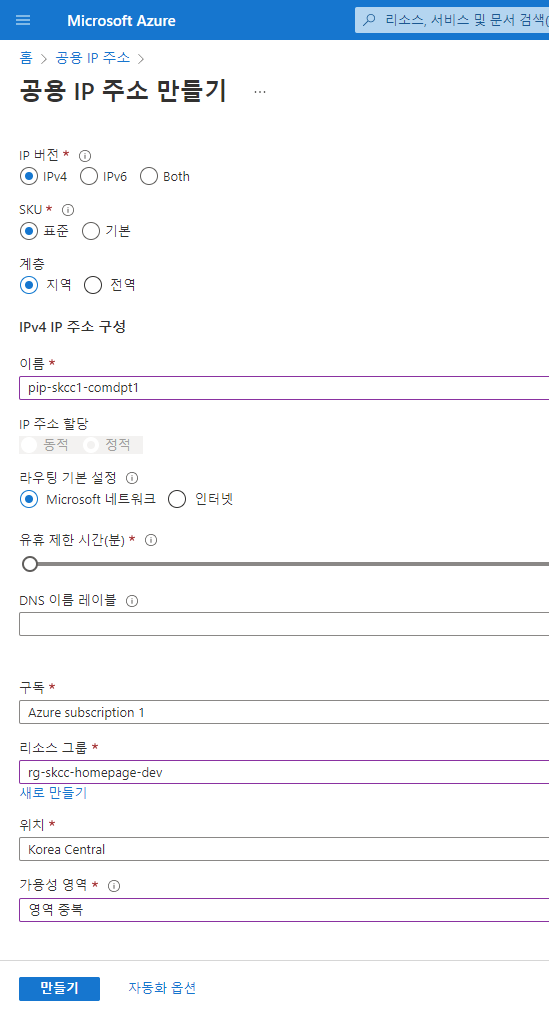
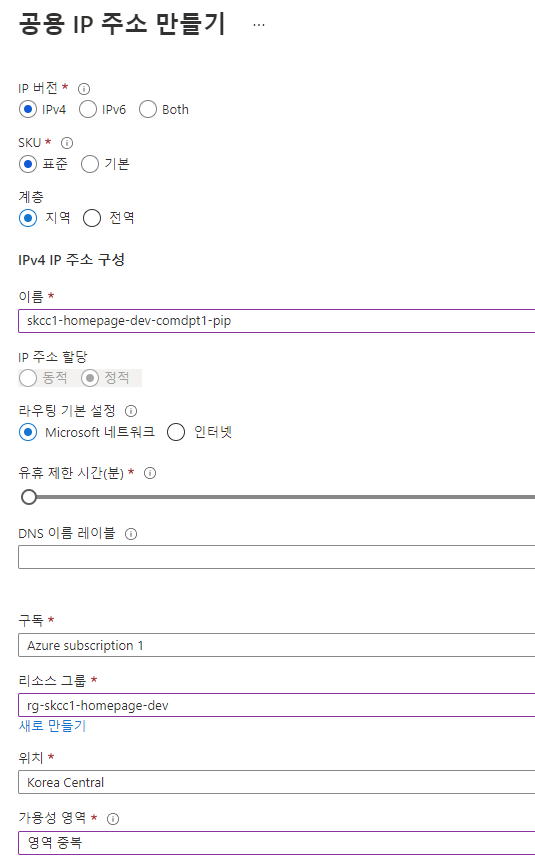
2022-02-10

Changed region(s): [[0.0, 0.0, 1.0, 0.6349], [0.0299, 0.6651, 1.0, 0.9977], [0.2393, 0.9674, 0.3589, 0.9977]]

diff --git a/1.IaaS/AzurePublicIPAddress.md b/1.IaaS/AzurePublicIPAddress.md
@@ -10,9 +10,22 @@
   - Azure Firewall
   - Bastion Host
 
+### IPv4 IP 주소 구성
+#### PT(Apache)
+| 항목 | 내용 |  
+| 이름 | skcc1-homepage-dev-comdpt1-pip |  
+| 리소스 그룹 | rg-skcc1-homepage-dev |  
+| 위치 | korea Central |  
+
+#### AP(Tomcat)
+| 항목 | 내용 |  
+| 이름 | skcc1-homepage-dev-comdap1-pip |  
+| 리소스 그룹 | rg-skcc1-homepage-dev |  
+| 위치 | korea Central |  
 
 ### 홈 > "공용 IP 주소" > "+ 만들기"
-![pip-skcc-comdpt1-portal.png](./img/pip-skcc-comdpt1-portal.png)
+![pip-skcc-comdpt1-portal.png](./img/pip-skcc-comdpt1-portal.png)  
+![pip-skcc-comdap1-portal.png](./img/pip-skcc-comdap1-portal.png)  
 
 ## [PowerShell](https://shell.azure.com)
 <a href="https://shell.azure.com">
